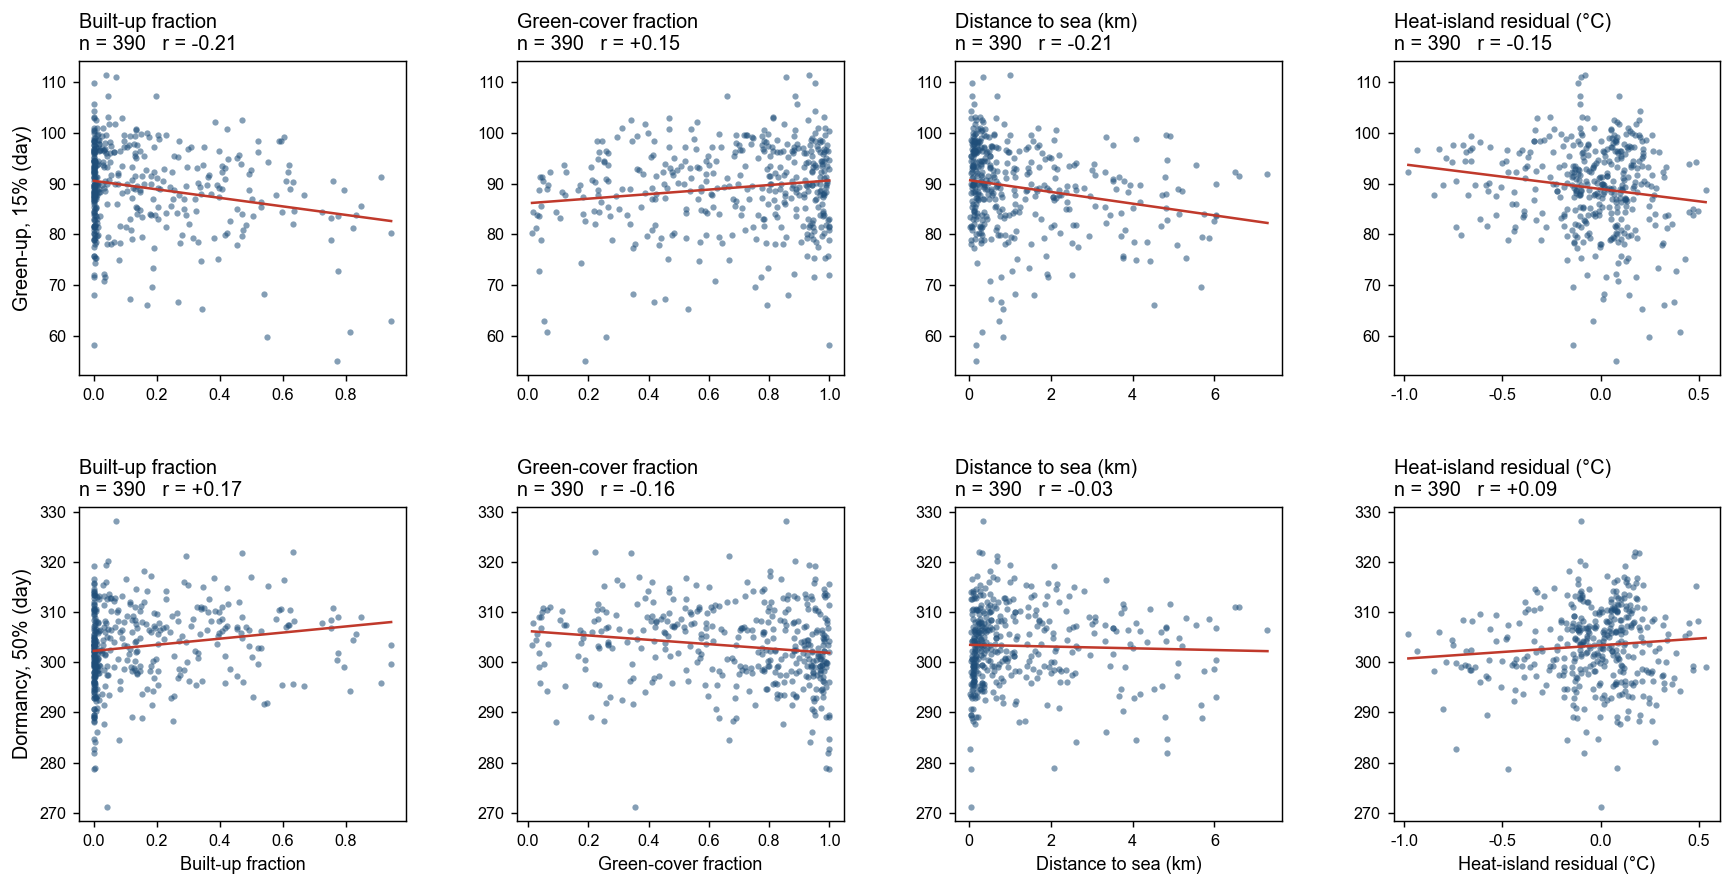
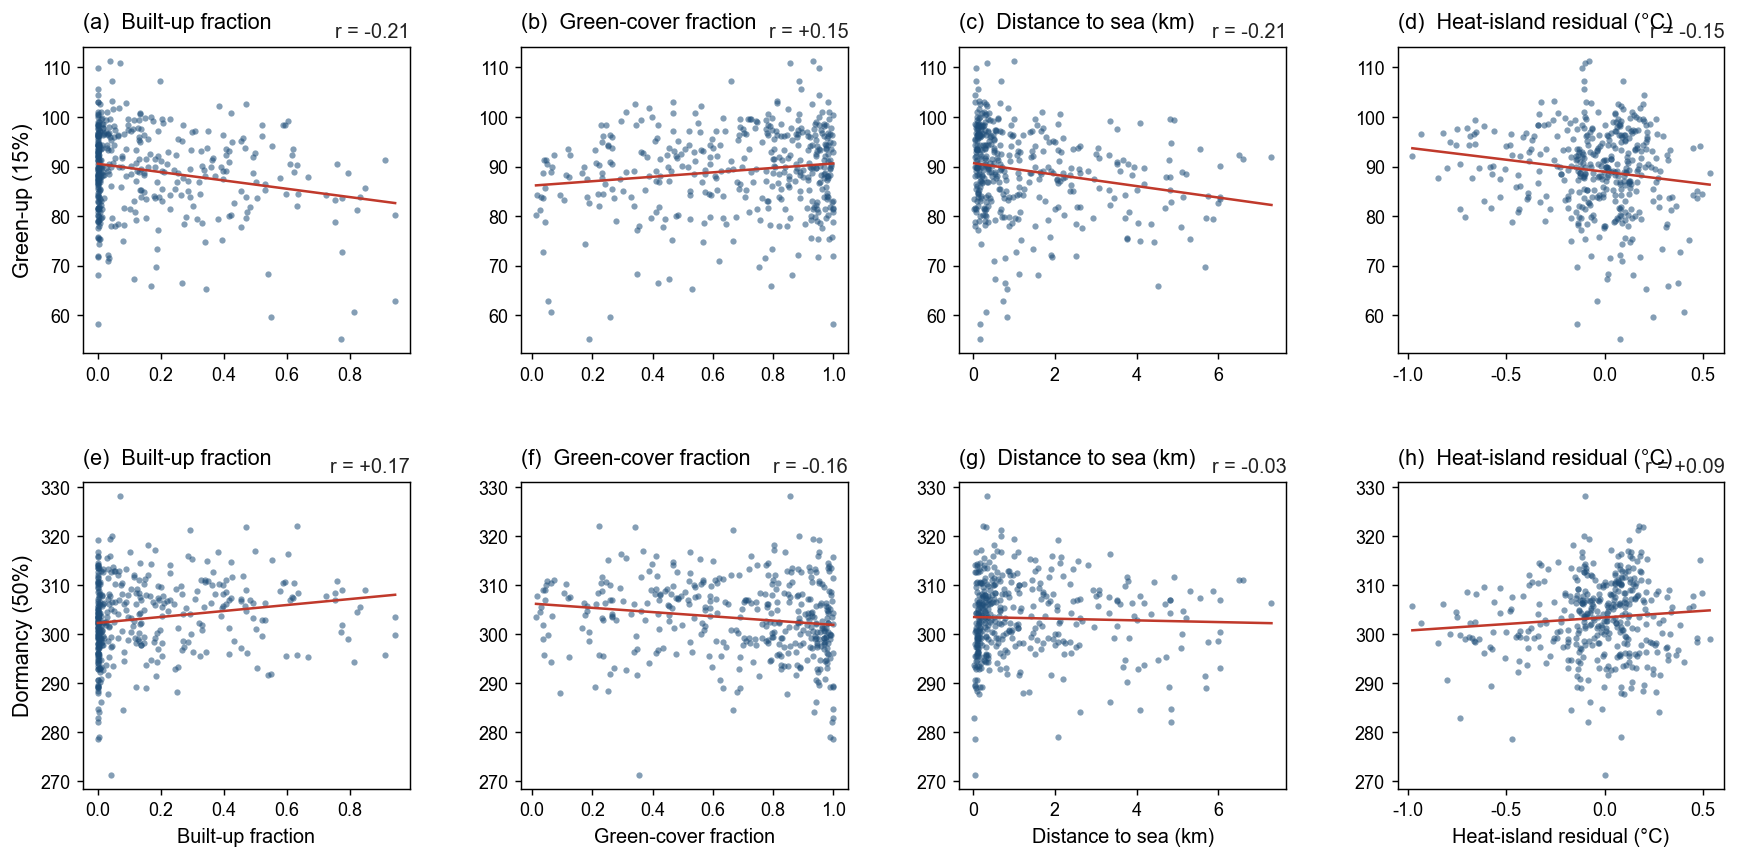
Use one set of panel names on the remaining final figures.
Green-up (15%) and dormancy (50%) are labeled the same way on the maps, the yearly trend, and the context plots. Sentence titles are off the maps, and the correlation sits beside the panel name.

diff --git a/analyze_context_scales.py b/analyze_context_scales.py
@@ -42,18 +42,16 @@ MIN_VEG = 15
 MIN_CELLS = 8
 TO_XY = pyproj.Transformer.from_crs(4326, 32649, always_xy=True)
 DRIVERS = (
-    ("urban", "建成区比例"),
-    ("green", "绿地比例"),
-    ("sea_km", "离海距离 (km)"),
-    ("uhi", "热岛残差 (°C)"),
+    ("urban", "Built-up fraction"),
+    ("green", "Green-cover fraction"),
+    ("sea_km", "Distance to sea (km)"),
+    ("uhi", "Heat-island residual (°C)"),
 )
 
 
 def fontprop():
-    if FONT.is_file():
-        font_manager.fontManager.addfont(str(FONT))
-        return font_manager.FontProperties(fname=str(FONT))
-    return font_manager.FontProperties(family="DejaVu Sans")
+    from plot_style import arial
+    return arial(10)
 
 
 def load_phenology() -> tuple[np.ndarray, np.ndarray, np.ndarray, np.ndarray, np.ndarray]:
@@ -218,7 +216,7 @@ def draw_lines(table: pd.DataFrame, path: Path, font) -> None:
     fig, axes = plt.subplots(1, 2, figsize=(11.2, 4.6), dpi=140, sharey=True)
     fig.subplots_adjust(top=0.82, bottom=0.16, wspace=0.12)
     colors = {"urban": "#c0392b", "green": "#1e8449", "sea_km": "#1f618d", "uhi": "#d68910"}
-    for ax, target, title in zip(axes, ("sos", "eos"), ("返青", "休眠")):
+    for ax, target, title in zip(axes, ("sos", "eos"), ("Green-up, 15%", "Dormancy, 50%")):
         for key, label in DRIVERS:
             block = table[(table["target"] == target) & (table["driver"] == key)].sort_values("grid_m")
             ax.plot(block["grid_m"] / 1000, block["r"], marker="o", color=colors[key], label=label, lw=1.6)
@@ -226,49 +224,63 @@ def draw_lines(table: pd.DataFrame, path: Path, font) -> None:
         ax.set_xscale("log")
         ax.set_xticks([0.5, 1, 2, 5, 10, 20])
         ax.set_xticklabels(["0.5", "1", "2", "5", "10", "20"])
-        ax.set_xlabel("格网 (公里)", fontproperties=font, fontsize=11)
+        ax.set_xlabel("Cell size (km)", fontproperties=font, fontsize=11)
         ax.set_title(title, fontproperties=font, fontsize=13, loc="left")
         ax.tick_params(labelsize=9)
-    axes[0].set_ylabel("与格子平均日期的相关 r", fontproperties=font, fontsize=11)
+    axes[0].set_ylabel("Correlation", fontproperties=font, fontsize=11)
     handles, labels = axes[0].get_legend_handles_labels()
     fig.legend(handles, labels, loc="lower center", ncol=4, frameon=False, prop=font, bbox_to_anchor=(0.5, 0.01))
-    fig.suptitle("建成区、绿地、离海距离和热岛残差，在不同格网上和物候的相关", fontproperties=font, fontsize=13, x=0.06, ha="left")
+    fig.suptitle("Correlation vs cell size. Green-up 15%, dormancy 50%.", fontproperties=font, fontsize=12)
     fig.savefig(path, dpi=140)
     plt.close(fig)
 
 
 def draw_scatter(frame: pd.DataFrame, path: Path, font) -> None:
-    fig, axes = plt.subplots(2, 4, figsize=(13.4, 6.6), dpi=130)
-    fig.subplots_adjust(left=0.06, right=0.985, top=0.86, bottom=0.10, hspace=0.38, wspace=0.32)
-    for row, (target, ylabel) in enumerate((("sos", "返青（日序）"), ("eos", "休眠（日序）"))):
+    fig, axes = plt.subplots(2, 4, figsize=(13.8, 6.8), dpi=130)
+    fig.subplots_adjust(left=0.07, right=0.985, top=0.94, bottom=0.10, hspace=0.42, wspace=0.34)
+    ylabels = ("Green-up (15%)", "Dormancy (50%)")
+    for row, (target, ylabel) in enumerate((("sos", ylabels[0]), ("eos", ylabels[1]))):
         for col, (key, label) in enumerate(DRIVERS):
             ax = axes[row, col]
             x = frame[key].to_numpy(np.float64)
             y = frame[target].to_numpy(np.float64)
-            r, p, n = corr(x, y)
+            r, _p, _n = corr(x, y)
             ax.scatter(x, y, s=12, color="#1f4e79", alpha=0.55, linewidths=0)
             mask = np.isfinite(x) & np.isfinite(y)
             if mask.sum() >= 2 and np.std(x[mask]) > 0:
                 slope, intercept = np.polyfit(x[mask], y[mask], 1)
                 xs = np.linspace(np.min(x[mask]), np.max(x[mask]), 40)
                 ax.plot(xs, intercept + slope * xs, color="#c0392b", lw=1.4)
-            ax.set_title(f"{label}\nn = {n}   r = {r:+.2f}", fontproperties=font, fontsize=10, loc="left")
+            letter = "abcdefgh"[row * 4 + col]
+            ax.set_title(f"({letter})  {label}", fontproperties=font, fontsize=12, loc="left", pad=10)
+            ax.annotate(
+                f"r = {r:+.2f}",
+                xy=(1, 1), xycoords="axes fraction",
+                xytext=(0, 3), textcoords="offset points",
+                ha="right", va="bottom",
+                fontproperties=font, fontsize=11, color="#222222",
+                annotation_clip=False,
+            )
             if row == 1:
-                ax.set_xlabel(label, fontproperties=font, fontsize=9)
+                ax.set_xlabel(label, fontproperties=font, fontsize=11)
             if col == 0:
-                ax.set_ylabel(ylabel, fontproperties=font, fontsize=10)
-            ax.tick_params(labelsize=8)
-    fig.suptitle("2 公里格网。每个点是一个格子的多年平均日期。", fontproperties=font, fontsize=13, x=0.06, ha="left")
-    fig.savefig(path, dpi=130)
+                ax.set_ylabel(ylabel, fontproperties=font, fontsize=12)
+            ax.tick_params(labelsize=10)
+    path.parent.mkdir(parents=True, exist_ok=True)
+    fig.savefig(path, dpi=130, bbox_inches="tight", facecolor="white")
     plt.close(fig)
 
 
 def draw_maps(frame: pd.DataFrame, path: Path, font) -> None:
-    fields = (("sos", "返青（日序）", "viridis"), ("eos", "休眠（日序）", "viridis"),
-              ("urban", "建成区比例", "YlOrRd"), ("uhi", "热岛残差 (°C)", "coolwarm"))
-    fig, axes = plt.subplots(2, 2, figsize=(8.6, 8.2), dpi=130)
-    fig.subplots_adjust(top=0.90, wspace=0.18, hspace=0.22)
-    for ax, (key, label, cmap) in zip(axes.ravel(), fields):
+    fields = (
+        ("sos", "(a)  Green-up (15%)", "Day of year", "viridis"),
+        ("eos", "(b)  Dormancy (50%)", "Day of year", "viridis"),
+        ("urban", "(c)  Built-up fraction", "Fraction", "YlOrRd"),
+        ("uhi", "(d)  Heat-island residual", "°C", "coolwarm"),
+    )
+    fig, axes = plt.subplots(2, 2, figsize=(8.8, 8.2), dpi=130)
+    fig.subplots_adjust(top=0.96, wspace=0.22, hspace=0.18)
+    for ax, (key, label, unit, cmap) in zip(axes.ravel(), fields):
         iy = frame["iy"].to_numpy()
         ix = frame["ix"].to_numpy()
         img = np.full((iy.max() + 1, ix.max() + 1), np.nan)
@@ -279,12 +291,13 @@ def draw_maps(frame: pd.DataFrame, path: Path, font) -> None:
         else:
             lo, hi = np.nanpercentile(img, [2, 98])
             im = ax.imshow(img, cmap=cmap, vmin=lo, vmax=hi, origin="upper")
-        ax.set_title(label, fontproperties=font, fontsize=11, loc="left")
+        ax.set_title(label, fontproperties=font, fontsize=12, loc="left")
         ax.set_xticks([])
         ax.set_yticks([])
-        fig.colorbar(im, ax=ax, fraction=0.046, pad=0.02)
-    fig.suptitle("1 公里格网", fontproperties=font, fontsize=13, x=0.06, ha="left")
-    fig.savefig(path, dpi=130)
+        cbar = fig.colorbar(im, ax=ax, fraction=0.046, pad=0.02)
+        cbar.set_label(unit, fontproperties=font, fontsize=10)
+        cbar.ax.tick_params(labelsize=9)
+    fig.savefig(path, dpi=130, bbox_inches="tight", facecolor="white")
     plt.close(fig)
 
 
@@ -327,8 +340,12 @@ def main() -> None:
     FIG.mkdir(parents=True, exist_ok=True)
     table.to_csv(FIG / "context_scale_correlations.csv", index=False)
     draw_lines(table, FIG / "context_scale_correlations.png", font)
+    final = FIG / "final"
+    final.mkdir(parents=True, exist_ok=True)
     draw_scatter(stored[2000], FIG / "context_scatter_2km.png", font)
+    draw_scatter(stored[2000], final / "context_scatter_2km.png", font)
     draw_maps(stored[1000], FIG / "context_maps_1km.png", font)
+    draw_maps(stored[1000], final / "context_maps_1km.png", font)
     print("wrote figures/context_scale_correlations.png")
 
 
